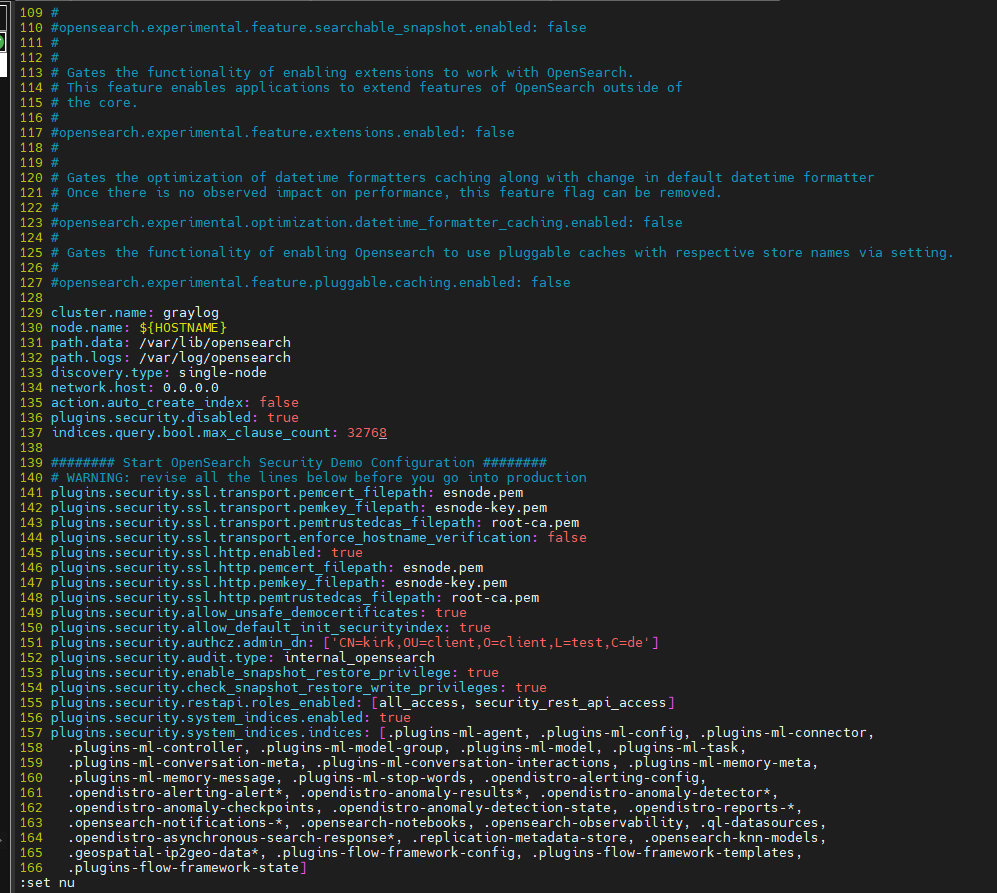
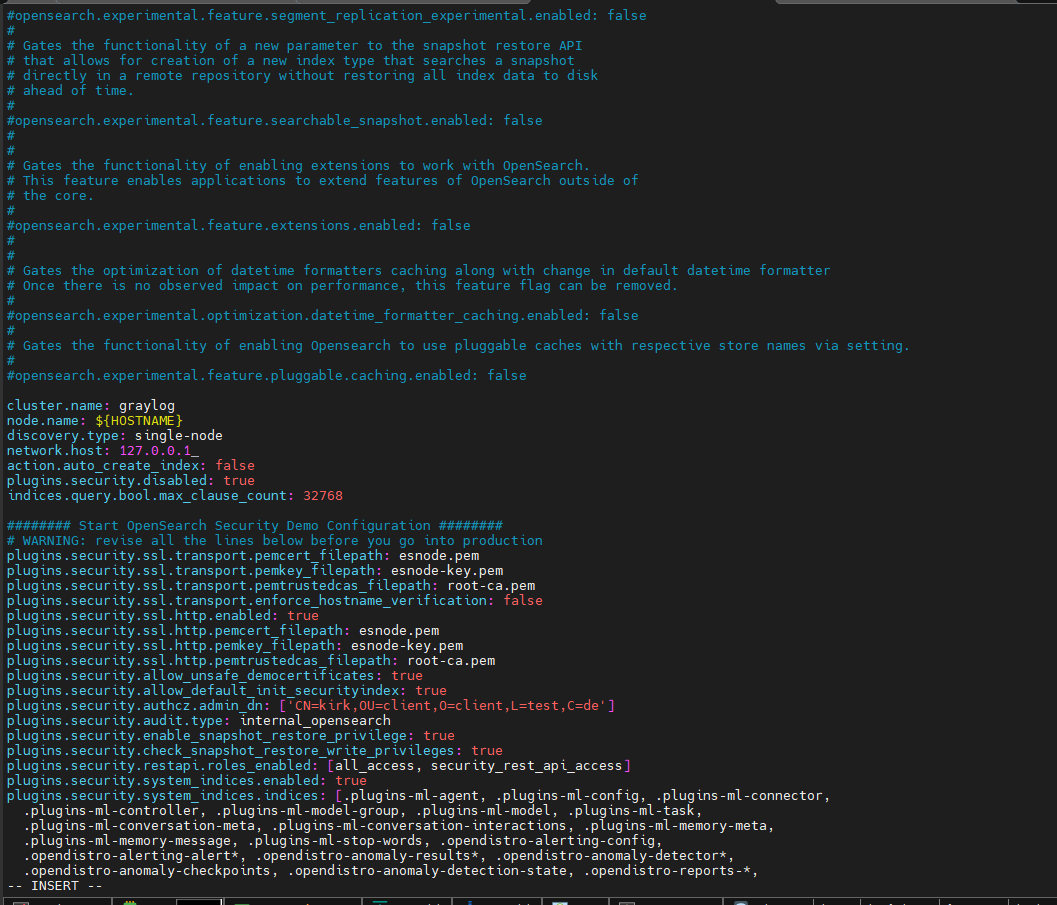
a

diff --git a/Công nghệ Log/GrayLog/1. GrayLog.md b/Công nghệ Log/GrayLog/1. GrayLog.md
@@ -205,8 +205,6 @@ vi /etc/opensearch/opensearch.yml
 ```
 cluster.name: graylog
 node.name: ${HOSTNAME}
-path.data: /var/lib/opensearch
-path.logs: /var/log/opensearch
 discovery.type: single-node
 network.host: 0.0.0.0
 action.auto_create_index: false
@@ -299,6 +297,22 @@ sudo sed -i 's/#http_bind_address = 127.0.0.1.*/http_bind_address = 172.16.5.70:
 ![alt text](image-18.png)
 
 ![alt text](image-19.png)
+
+![alt text](image-20.png)
+
+- Để đổi thông tin đăng nhập admin Graylog ta cần cấu hình vào file: `/etc/graylog/server/server.conf`
+
+```
+root@graylogserver:~# echo -n yourpassword | shasum -a 256
[1 lines of base64/hex data omitted]
+```
+
+- Thu được mật khẩu đã mã hoá, sau đó truy cập file: `/etc/graylog/server/server.conf` và điền giá trị vào dòng `root_password_sha2` để thay đổi mật khẩu.
+
+![alt text](image-21.png)
+
+- Lưu lại và restart graylog server: `systemctl restart graylog-server`
+
 
 
 
